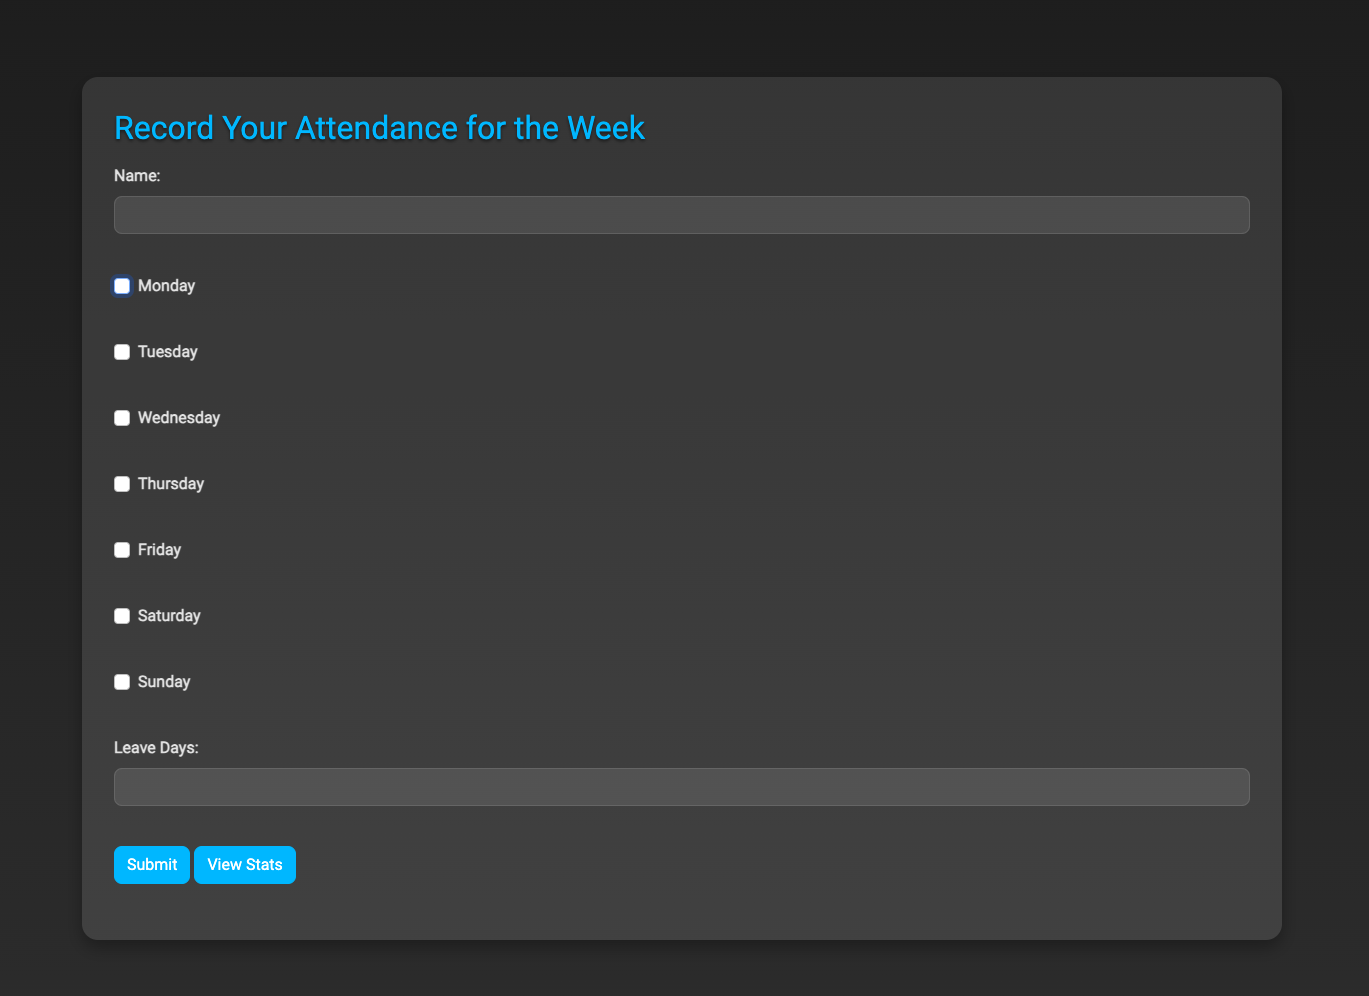
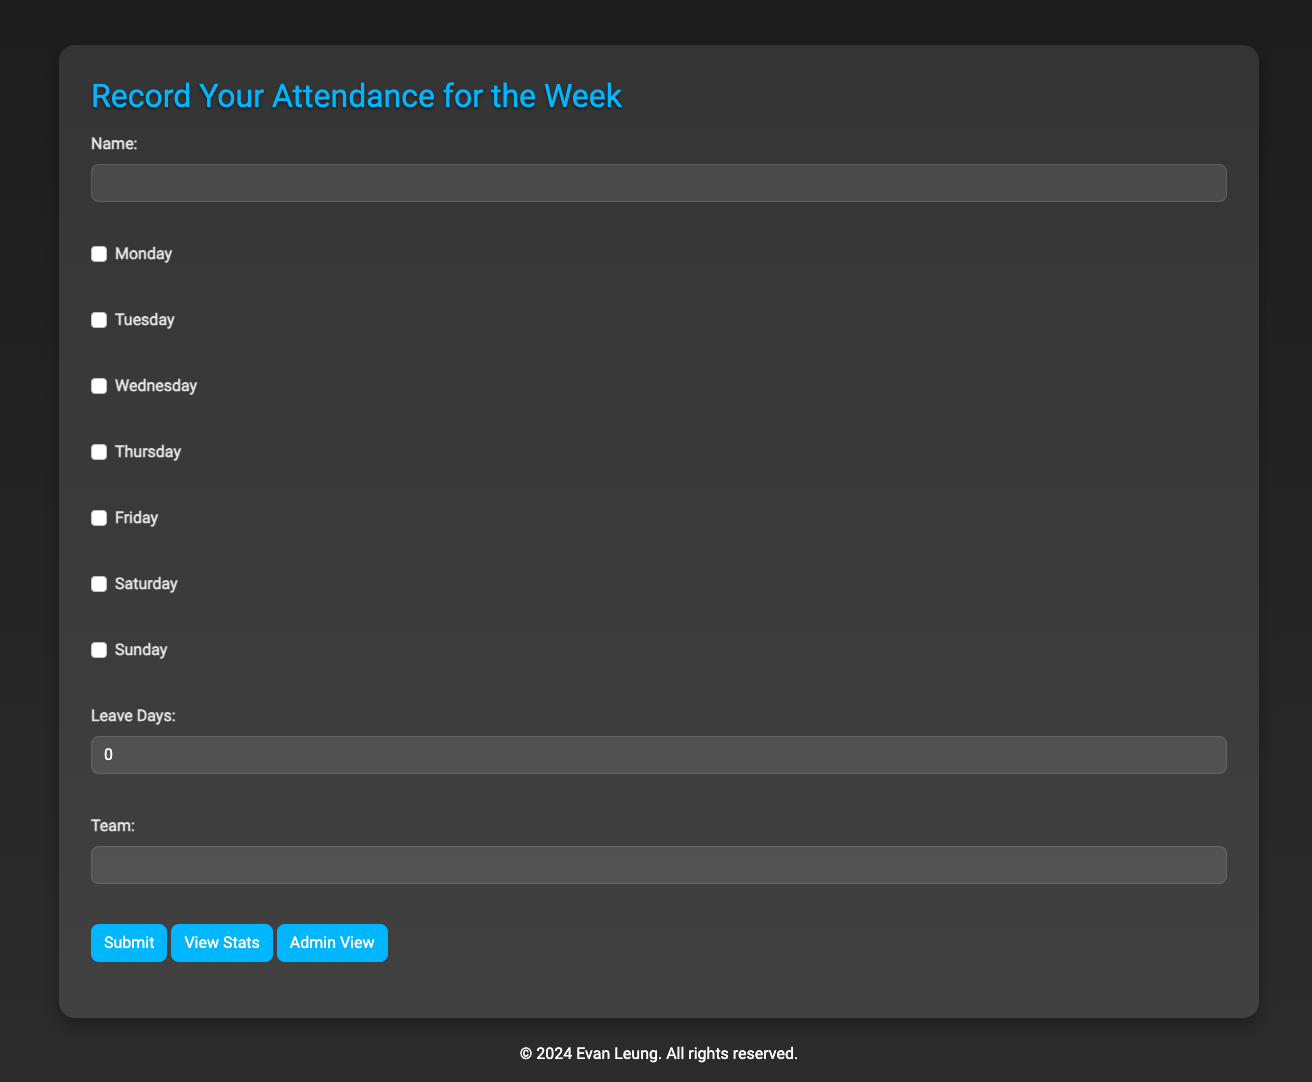
doc():update pictures

diff --git a/src/main/resources/templates/attendance.html b/src/main/resources/templates/attendance.html
@@ -116,6 +116,7 @@
         <div class="form-group col-12">
             <button type="submit" class="btn btn-primary">Submit</button>
             <a href="/stats" class="btn btn-primary">View Stats</a>
+            <a href="/admin" class="btn btn-primary">Admin View</a>
         </div>
     </form>
 </div>

diff --git a/src/main/java/com/evan/configuration/SecurityConfig.java b/src/main/java/com/evan/configuration/SecurityConfig.java
@@ -17,9 +17,8 @@ public class SecurityConfig {
     public SecurityFilterChain securityFilterChain(HttpSecurity http) throws Exception {
         http
                 .authorizeRequests()
-                .antMatchers("/login", "/css/**", "/js/**").permitAll()
                 .antMatchers("/admin/**").hasRole("ADMIN")
-                .anyRequest().authenticated()
+                .anyRequest().permitAll()
                 .and()
                 .formLogin()
                 .loginPage("/login")

diff --git a/Readme.md b/Readme.md
@@ -15,3 +15,4 @@
 
 ## 统计界面
 ![统计界面](doc/stats.png)
+![统计界面](doc/stats2.png)
